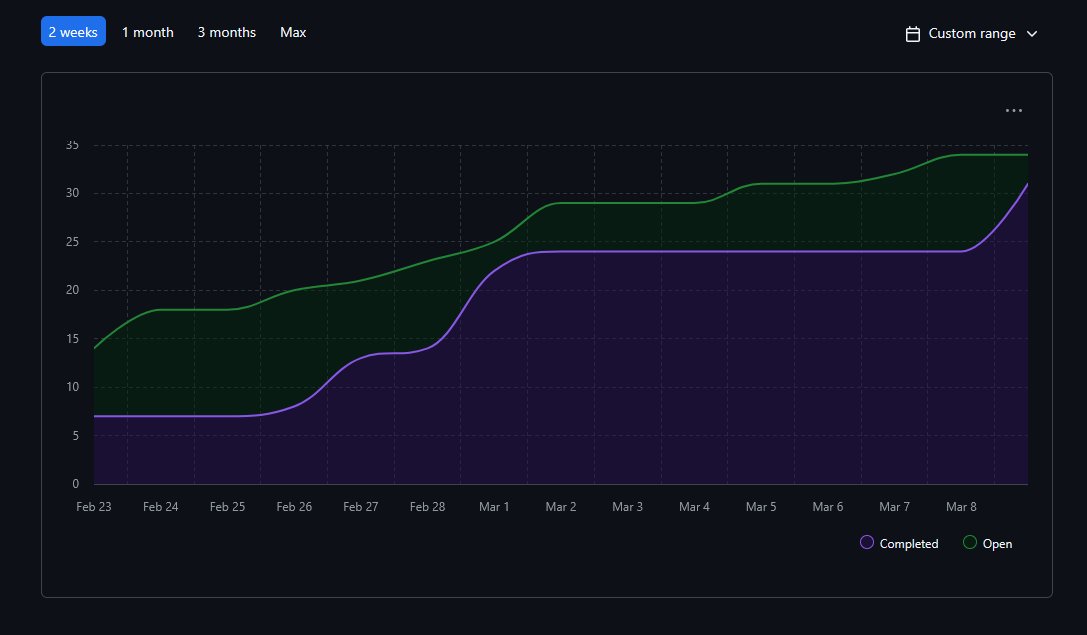
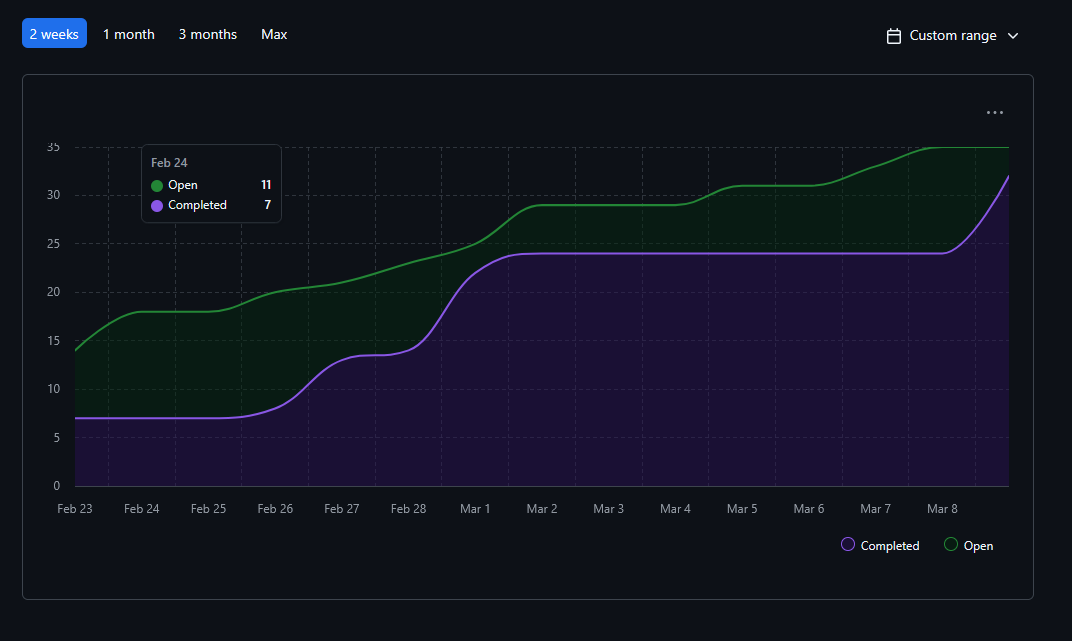
Add Images

diff --git a/Weekly logs/Term 2/Week 9.md b/Weekly logs/Term 2/Week 9.md
@@ -34,15 +34,15 @@ Frontend updates:
 
 ### Burnup chart & Task Table
 
-![T2 Week 1 Burn Up](/imgs/T2Week1%20Burnup%20chart.png)
+![T2 Week 9 Burn Up](/imgs/T2%20Week%209%20Burnup%20Chart.png)
 
-![Week 14 Tasks Table](/imgs/T2%20Week%201%20Task%20Table.png)
+![T2 Week 9 Tasks Table](/imgs/T2%20Week%209%20Task%20Table.png)
 Filtered to only show Tasks with changes this week.
 
 ### Test Report
 
-One failing test is trivial testing logic issue that wasnt fixed in time.
-![Week 14 Test Report](/imgs/T2%20Week%201%20Test%20Report.png)
+![ T2 Week 9 Test Report Frontend](/imgs/T2%20Week%209%20Frontend%20Test%20Report.png)
+![ T2 Week 9 Test Report Backend](/imgs/T2%20Week%209%20Backend%20Test%20Report.png)
 
 ### In Progress
 
